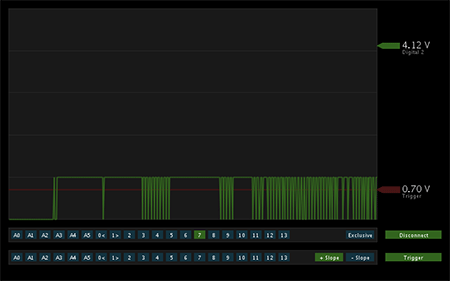
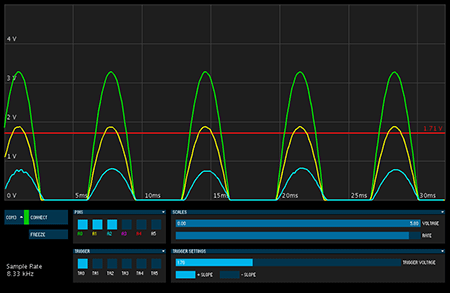
updated openscope

diff --git a/work/scope/index.html b/work/scope/index.html
@@ -61,12 +61,17 @@
 		<section class='m'>
 			<div class='w1'>
 				<p>
-					This is an Arduino based oscilloscope. Using a small Arduino program for capture, the data is sent to a processing application via Serial. Here, the data is stored, processed, and displayed. Currently, I am working to implement the triggering functionality.
+					This is a software package for turning an Arduino into an oscilloscope. The front-end is written in Processing, and provides controls for pin selection, triggering, and sample rate. Data is collected via the Arduino’s 6 ADC pins, and triggered/buffered on the chip. This allows for sample rates of up to ~25kHz.
 				</p>
 				<div class='bar h'>
 					<div class='graphics h'></div>
-					<span>Arduino Oscilloscope</span>
+					<span>OpenScope</span>
 					<span class='dim'>Arduino / Processing</span>
+				</div>
+				<div class='code bar h'>
+					<div class='graphics h'></div>
+					<span class='dim'>Github</span>
+					<a class='button' href='https://github.com/brendanwhitfield/openscope'>Code</a>
 				</div>
 			</div>
 			<div class='w2'>

diff --git a/index.html b/index.html
@@ -68,6 +68,13 @@
 				<div class='w1 h'>Arduino Universal Remote</div>
 			</div>
 		</a>
+		<a class='listLink' href='work/scope/' >
+			<div class='m h'>
+				<div class='w1 h'>
+					OpenScope
+				</div>
+			</div>
+		</a>
 		<a class='listLink' href='work/15puzzle/' >
 			<div class='m h'>
 				<div class='w1 h'>15-Puzzle Solver</div>
@@ -119,14 +126,6 @@
 			<div class='m h'>
 				<div class='w1 h'>
 					Text Analyzer
-					<span class="right dim">In the oven</span>
-				</div>
-			</div>
-		</a>
-		<a class='listLink' href='work/scope/' >
-			<div class='m h'>
-				<div class='w1 h'>
-					Arduino Oscilloscope
 					<span class="right dim">In the oven</span>
 				</div>
 			</div>

diff --git a/about.html b/about.html
@@ -71,12 +71,12 @@
 				<div class='code bar h'>
 					<div class='graphics h'></div>
 					<span class='dim'></span>
-					<a class='button static' href='mailto:bcw7044@rit.edu'>Email</a>
+					<a class='button static' href='https://github.com/brendanwhitfield'>GitHub</a>
 				</div>
 				<div class='code bar h'>
 					<div class='graphics h'></div>
 					<span class='dim'></span>
-					<a class='button static' href='https://github.com/brendanwhitfield'>GitHub</a>
+					<a class='button static' href='mailto:bcw7044@rit.edu'>Email</a>
 				</div>
 				<div class='code bar h'>
 					<div class='graphics h'></div>
